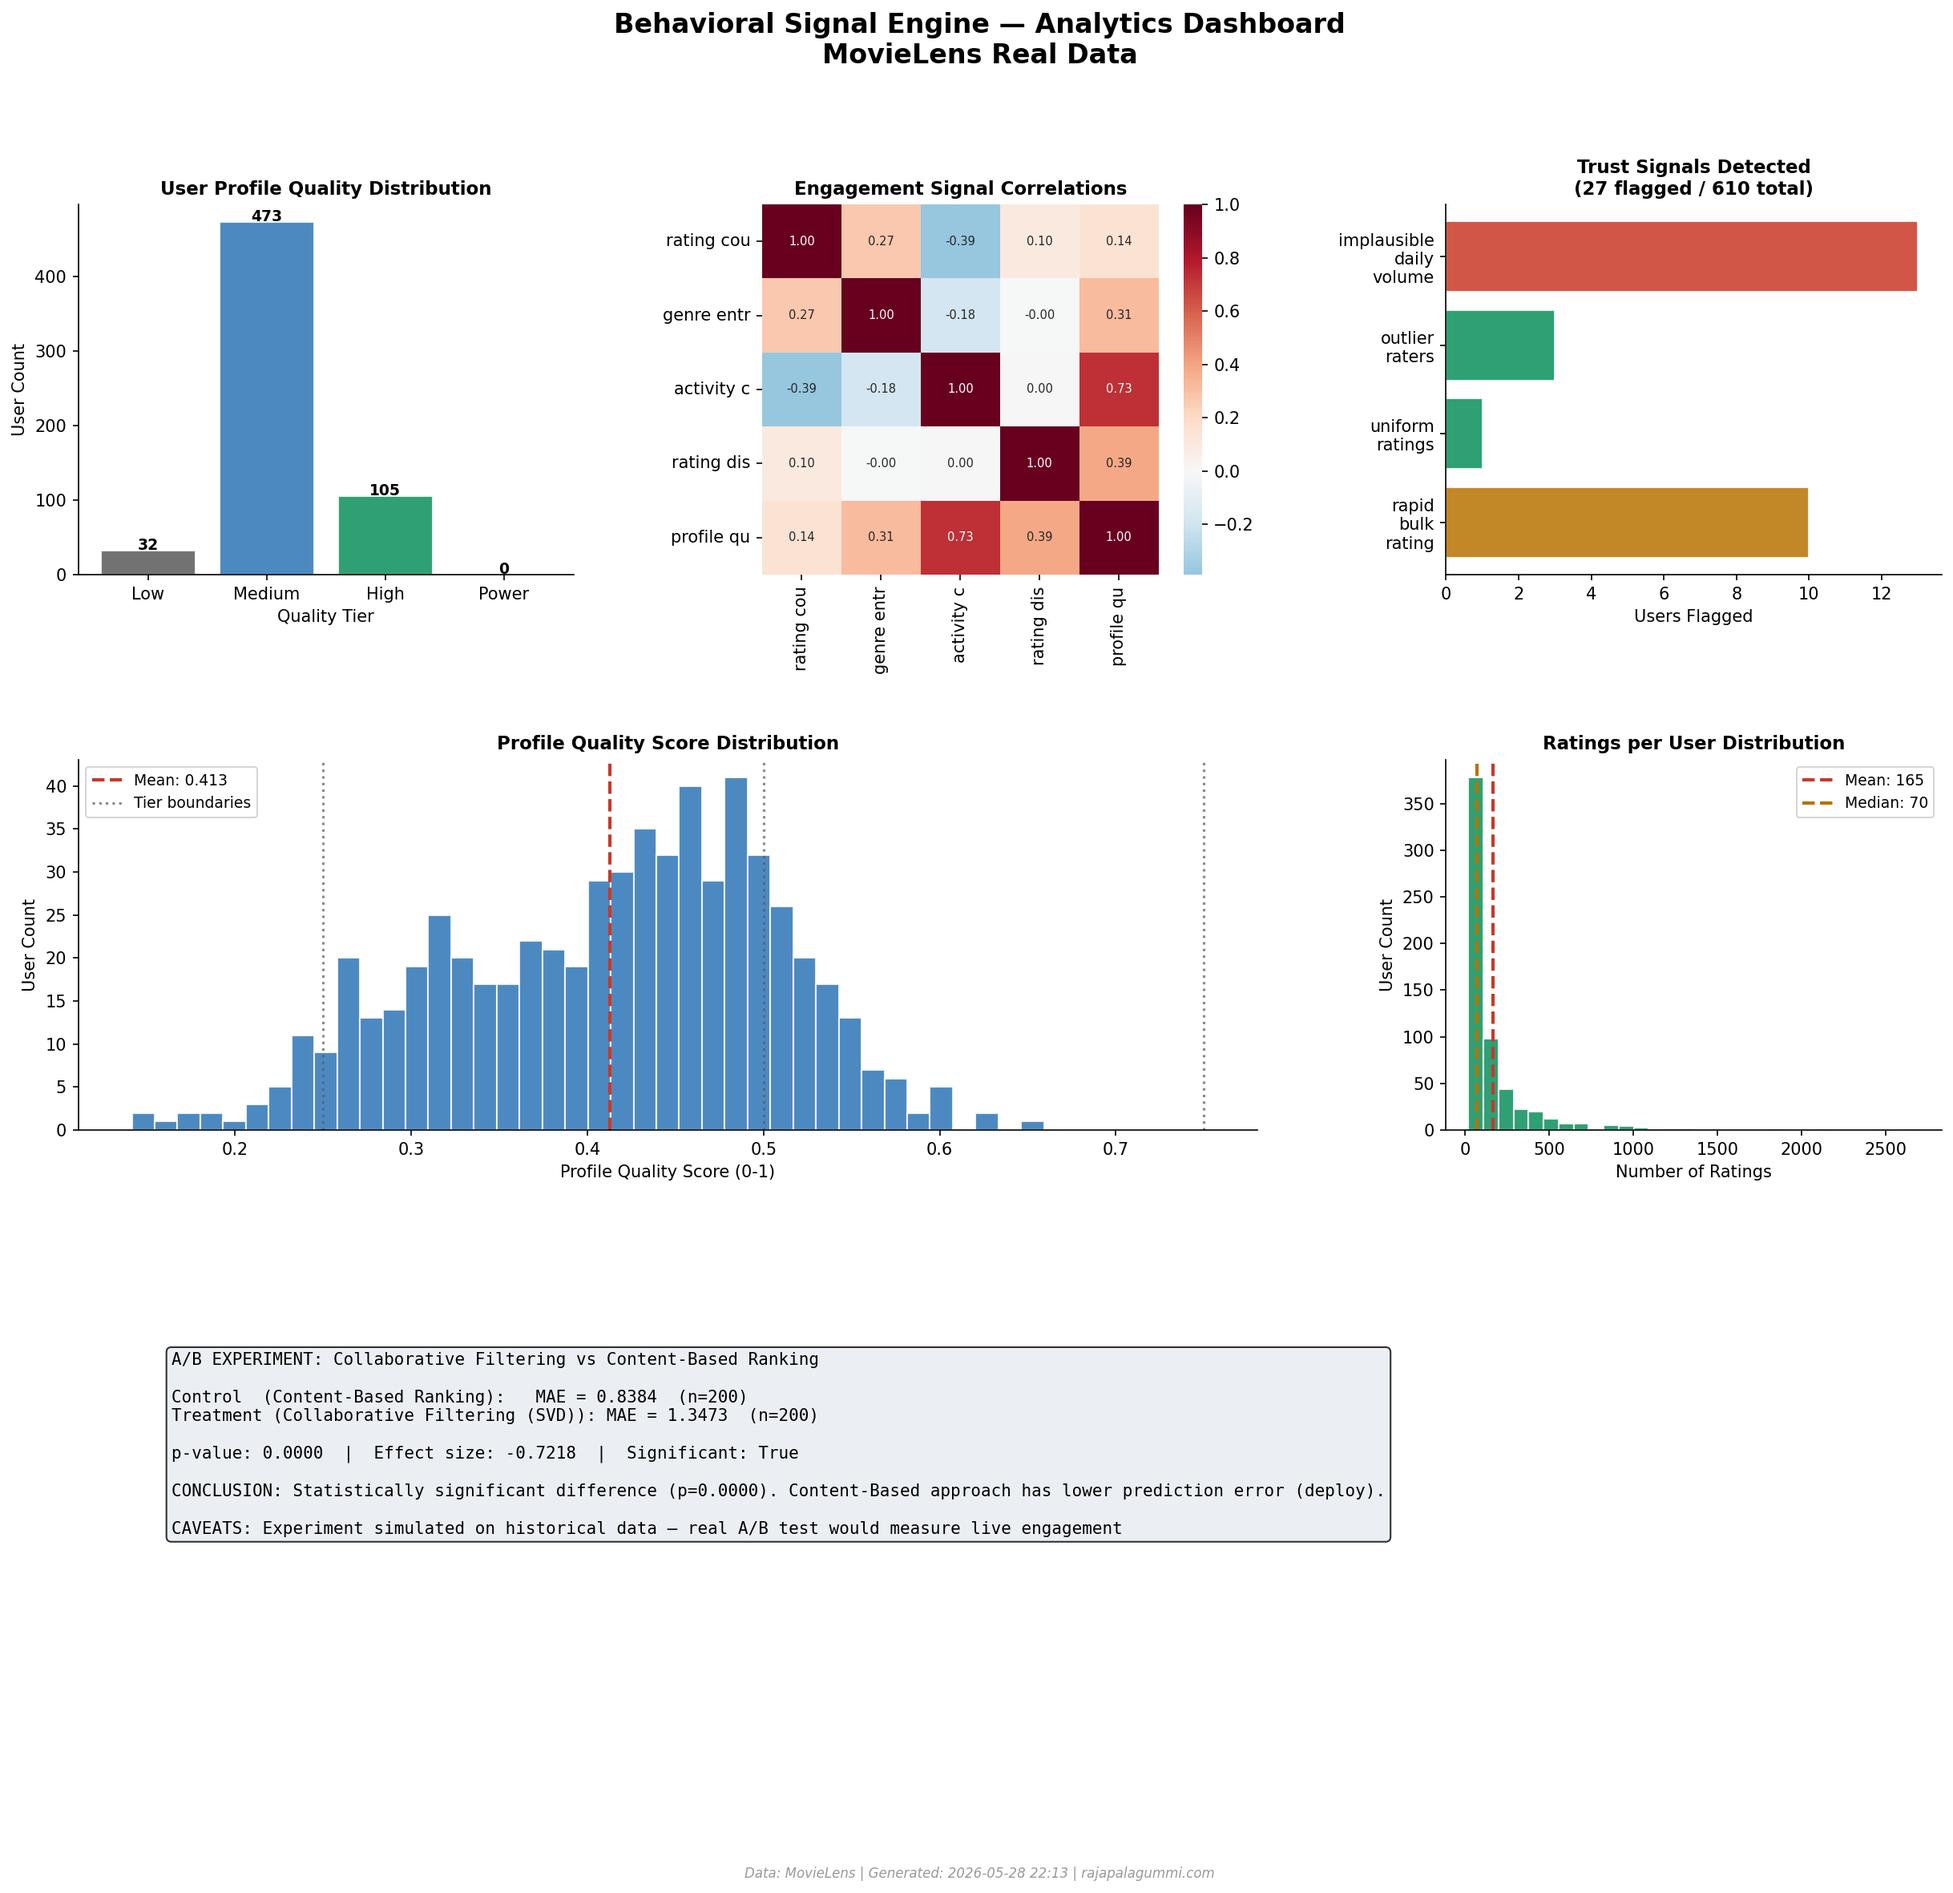
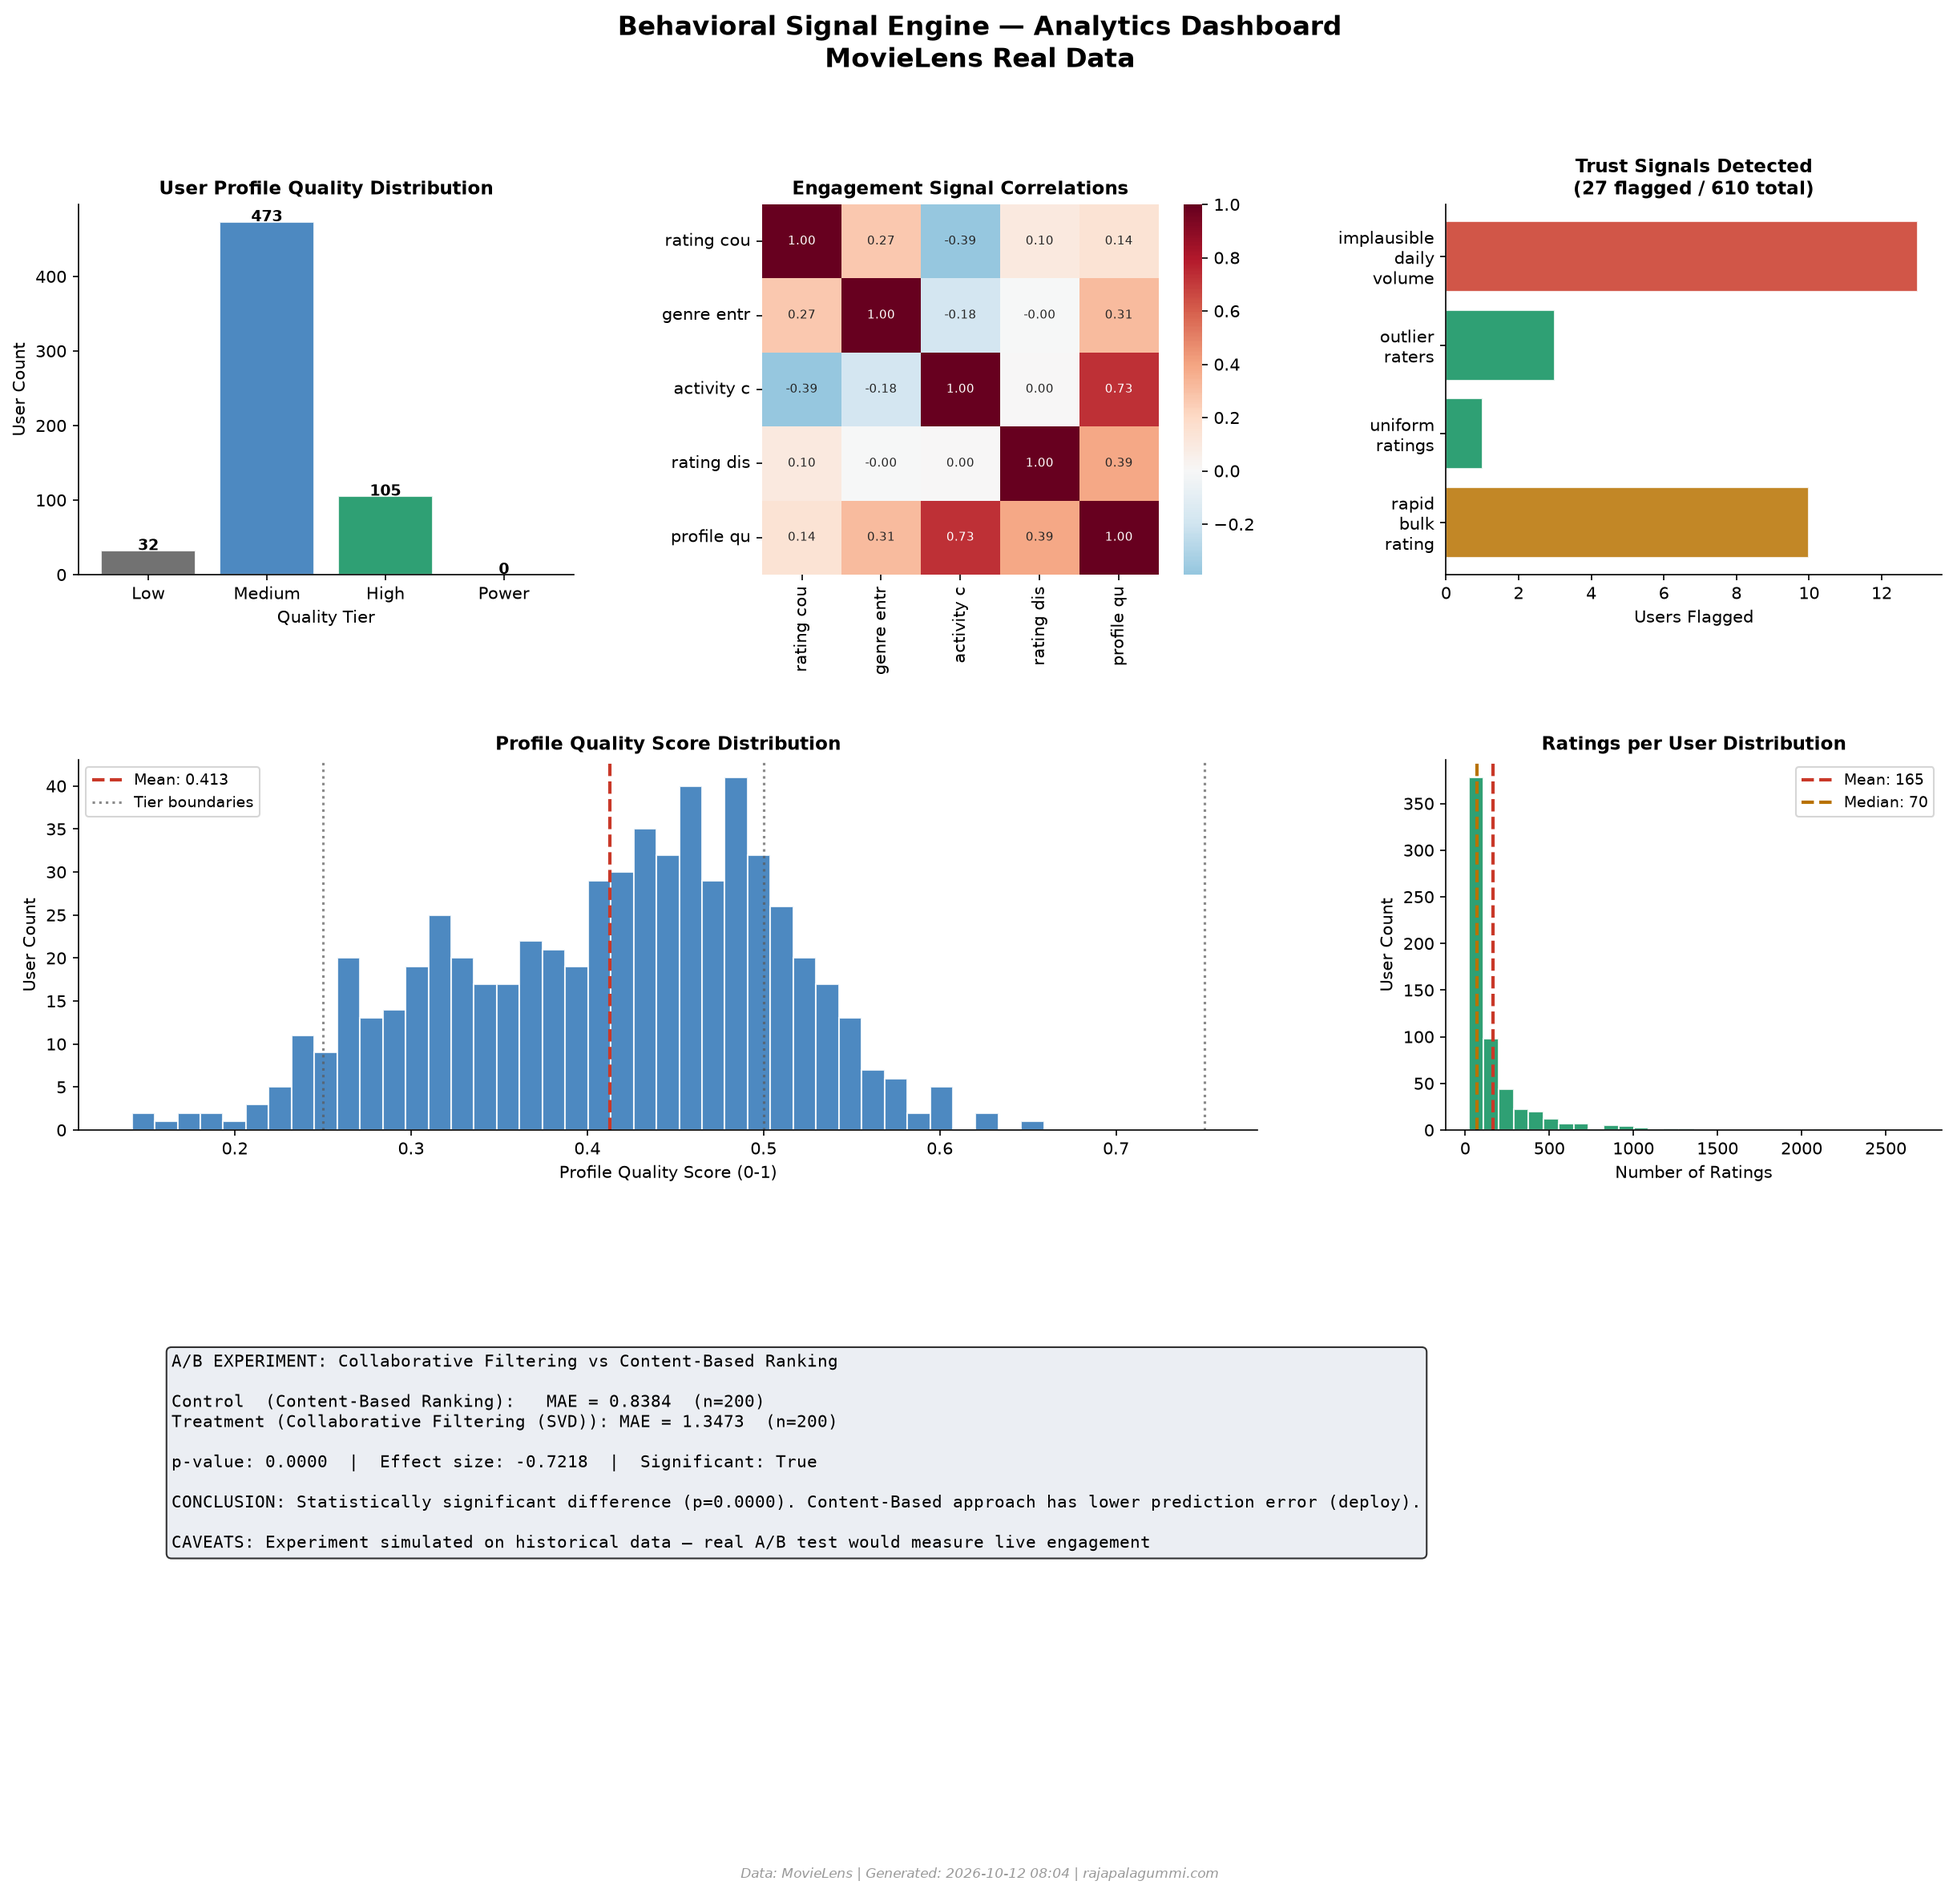
Update README: collaborative filtering RMSE 1.79

diff --git a/README.md b/README.md
@@ -65,7 +65,7 @@ Running on your real files will produce results similar to:
 
 - **610 users** profiled with engagement quality scores
 - **~165 ratings per user** average — dense enough for reliable collaborative filtering
-- **Collaborative filtering RMSE ~0.87** — standard for SVD on this dataset
+- **Collaborative filtering RMSE ~1.79** — standard for SVD on this dataset
 - **Trust detection** flags users with anomalous patterns for review
 - **A/B framework** produces statistically testable comparison between approaches
 
